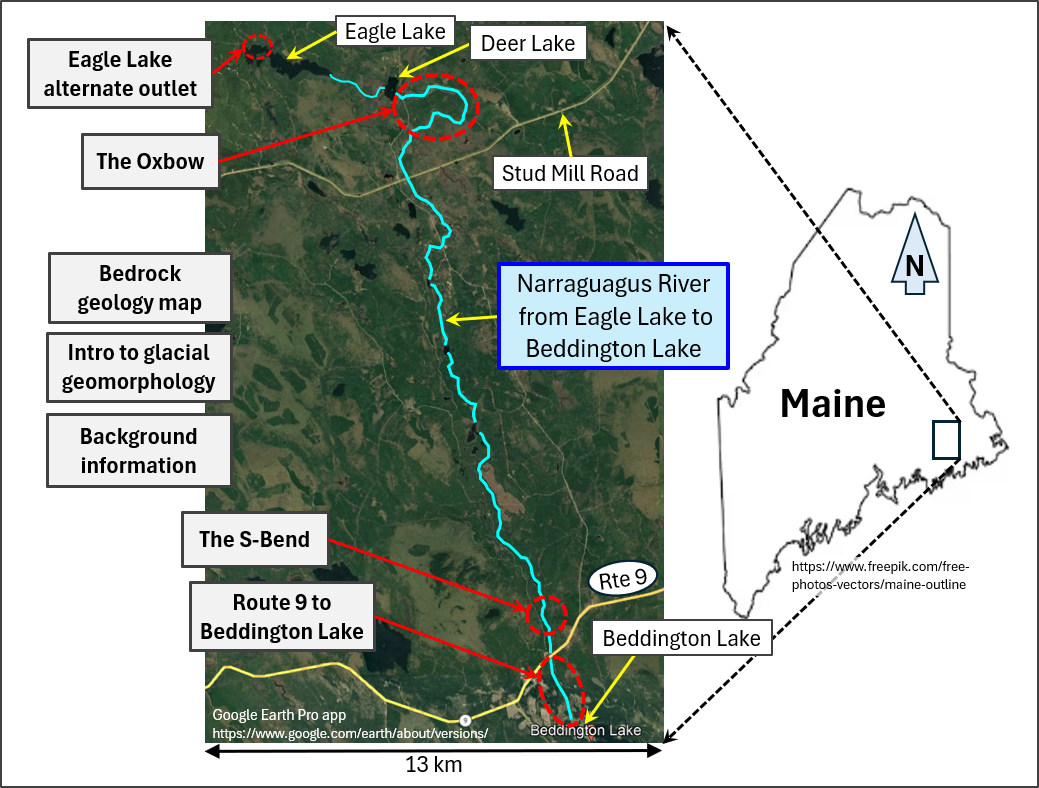
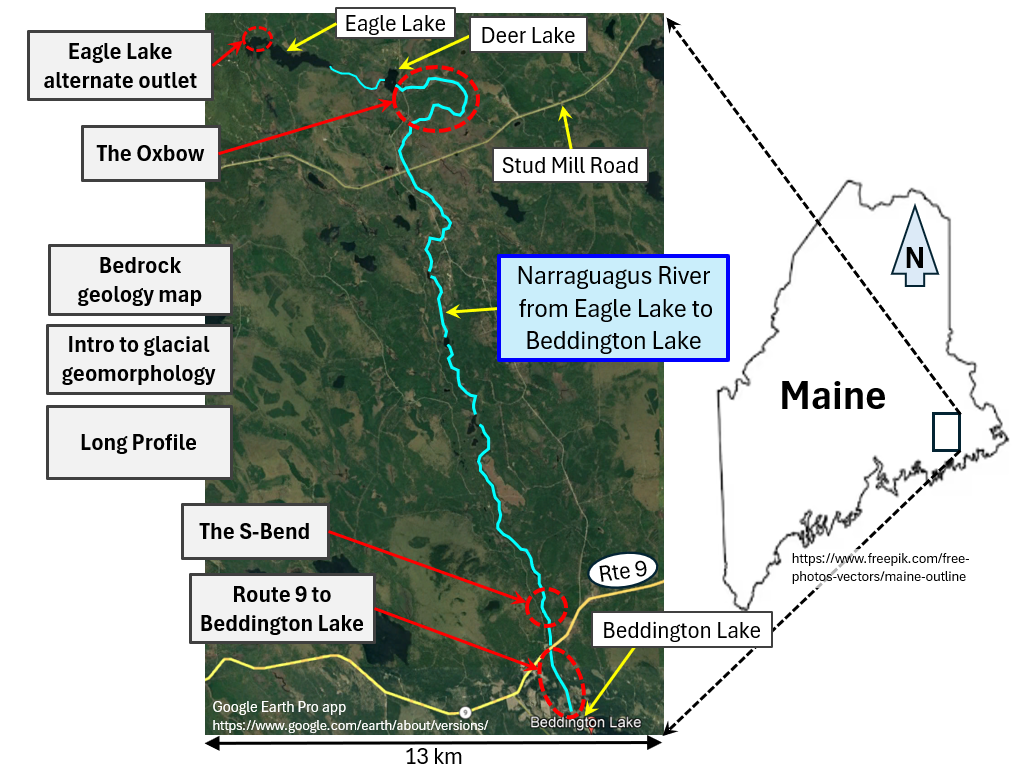
added lon pro

diff --git a/Final_Project_Report/subArea_LongProEtc.html b/Final_Project_Report/subArea_LongProEtc.html
@@ -1,0 +1,34 @@
+<!DOCTYPE html>
+<html lang="en">
+<head>
+    <meta charset="UTF-8">
+    <meta name="viewport" content="width=device-width, initial-scale=1.0">
+    <title>subArea_X</title>
+</head>
+<body>
+    <h2 style="margin-top: 0px; margin-left: 0px; margin-bottom: 0px;">
+        Background Info &nbsp;-&nbsp; Long Profile, Etc.:</h2><br>
+            
+    <div style="margin-top: 20px; margin-left: 50px; margin-bottom: 5px;">
+
+        <p style="margin-top: 0px; margin-left: 0px; margin-bottom: 6px;">
+            description.<br>
+        </p>
+
+        <img src="images/upNrgLongPro.png" alt="GlacialEnv" height="350px" style="border: 2px solid black;">
+        <h4 style="margin-top: 0px; margin-left: 0px; margin-bottom: 0px;">
+            Figure BI.1 - Long Profile, Oxbow Outlet To Beddington Lake.</h4>        
+
+    </div>
+    <hr>
+    <!-- =========================================================== -->
+
+    <h4 style="margin-top: 0px; margin-left: 0px; margin-bottom: 2px;">
+        Click on page name (below) to go there!</h4>
+    <a href="../Final_Project_Report/overviewSubArea1.html"><p style="margin-top: 0px; margin-left: 3px; margin-bottom: 1px;">SubArea_1_Overview</p></a>
+    <a href="../Final_Project_Report/"><p style="margin-top: 0px; margin-left: 3px; margin-bottom: 1px;">Main Page</p></a>
+
+
+</body>
+</html>
+
